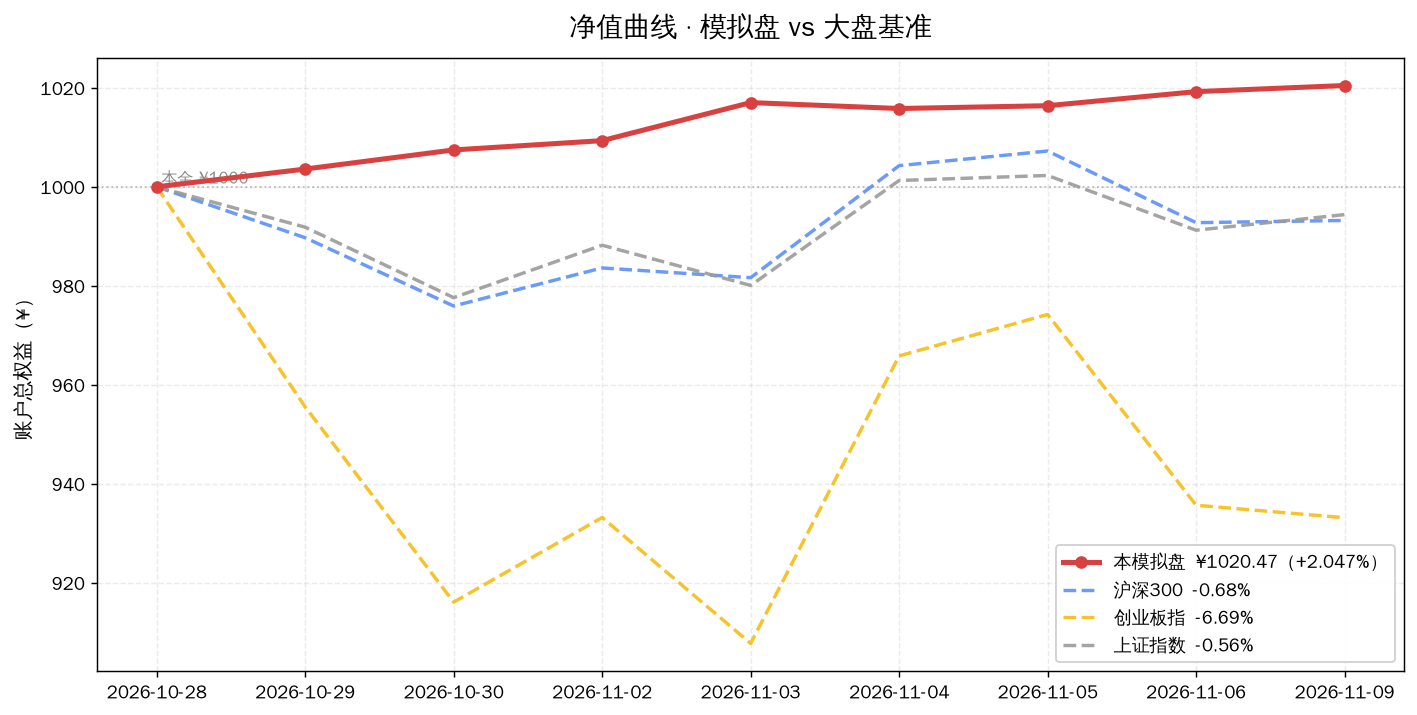
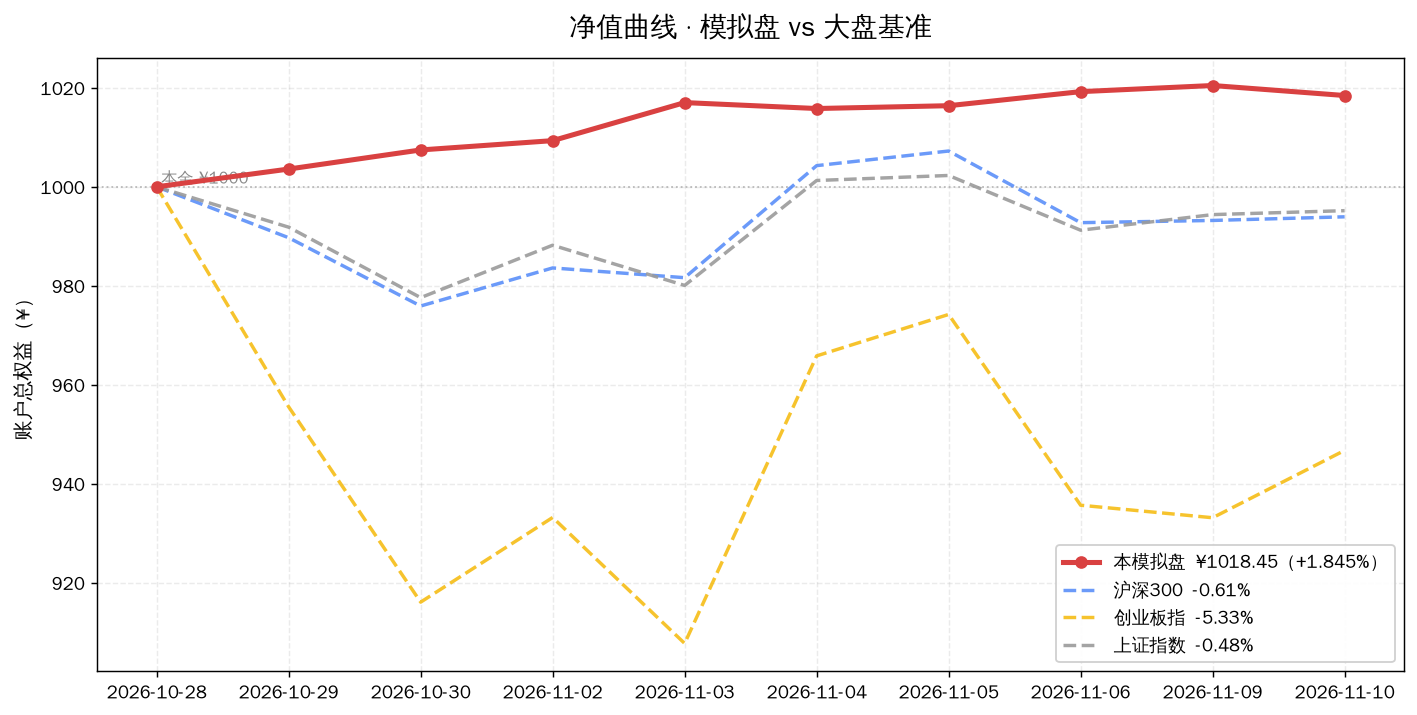
sim: dashboard update 2026-11-10 (equity ¥1018.45, +1.845%)

diff --git a/sim/DASHBOARD.md b/sim/DASHBOARD.md
@@ -1,8 +1,8 @@
 # 📊 模拟盘动态看板
 
-> **自动生成** · 最后更新 **2026-11-09 16:31** · 数据源：腾讯财经公开接口（实时行情）
+> **自动生成** · 最后更新 **2026-11-10 16:30** · 数据源：腾讯财经公开接口（实时行情）
 >
-> 本金 **¥1000.00** · 开仓 **2026-10-28** · 当前总权益 **¥1020.47** · 累计 **+2.047%**
+> 本金 **¥1000.00** · 开仓 **2026-10-28** · 当前总权益 **¥1018.45** · 累计 **+1.845%**
 >
 > ⚠ **纯模拟盘学习实验，不构成投资建议。**
 >
@@ -12,9 +12,9 @@
 
 ## 🎯 30 秒版本
 
-1. 从 2026-10-28 开仓到今天，账户从 ¥1000 变成 **¥1020.47**，赚了 **¥20.47（+2.047%）**。
-2. 今天单日 **+0.12%**，上涨 **¥1.24**。
-3. 同期大盘：**上证指数 -0.56%** 最强，**创业板指 -6.69%** 最弱 —— 本组合跑赢同期最强基准 +2.61 个百分点。
+1. 从 2026-10-28 开仓到今天，账户从 ¥1000 变成 **¥1018.45**，赚了 **¥18.45（+1.845%）**。
+2. 今天单日 **-0.20%**，下跌 **¥2.02**。
+3. 同期大盘：**上证指数 -0.48%** 最强，**创业板指 -5.33%** 最弱 —— 本组合跑赢同期最强基准 +2.33 个百分点。
 
 ## 📈 盈亏曲线
 
@@ -34,7 +34,7 @@
 
 ![盘中曲线](assets/intraday.png)
 
-**怎么读**：2026-11-09 当天每 30 分钟记录一次的账户总值。灰色虚线是当天开盘起点，曲线在虚线上方就是当天浮盈。A 股中午 11:30–13:00 休市，所以那段是平的。
+**怎么读**：2026-11-10 当天每 30 分钟记录一次的账户总值。灰色虚线是当天开盘起点，曲线在虚线上方就是当天浮盈。A 股中午 11:30–13:00 休市，所以那段是平的。
 
 ### 💵 每日盈亏明细图
 
@@ -50,20 +50,20 @@
 
 | 指标 | 数值 | 人话解读 |
 |---|---|---|
-| 总权益 | **¥1020.47** | 现在全部卖掉能拿回多少钱（持仓市值 + 现金） |
-| 持仓市值 | ¥746.60（73.2%） | 买成 ETF 的部分 |
-| 现金 | ¥273.87（26.8%） | 留着没买的钱，按货基利率计息 |
-| 累计盈亏 | **¥+20.47（+2.047%）** | 相对 ¥1000 本金 |
-| 今日盈亏 | **+0.12%** | 今天一天的变化 |
+| 总权益 | **¥1018.45** | 现在全部卖掉能拿回多少钱（持仓市值 + 现金） |
+| 持仓市值 | ¥744.58（73.1%） | 买成 ETF 的部分 |
+| 现金 | ¥273.87（26.9%） | 留着没买的钱，按货基利率计息 |
+| 累计盈亏 | **¥+18.45（+1.845%）** | 相对 ¥1000 本金 |
+| 今日盈亏 | **-0.20%** | 今天一天的变化 |
 | 历史最高 | ¥1020.47 | 账户到过的最高点 |
-| 当前回撤 | +0.000% | 离最高点还差多少（负数=没回到最高点） |
+| 当前回撤 | -0.198% | 离最高点还差多少（负数=没回到最高点） |
 
 ### 持仓明细
 
 | 标的 | 代码 | 持股 | 成本价 | 现价 | 今日 | 市值 | 浮动盈亏 | 人话解读 |
 |---|---|---|---|---|---|---|---|---|
-| 红利低波100ETF景顺 | 515100 | 450 | ¥1.431 | ¥1.473 | ➖+0.00% | ¥662.85 | **+18.90（+2.94%）** | 赚钱了 |
-| 黄金ETF华安 | 518880 | 10 | ¥8.226 | ¥8.375 | 🔺+1.48% | ¥83.75 | **+1.49（+1.81%）** | 赚钱了 |
+| 红利低波100ETF景顺 | 515100 | 450 | ¥1.431 | ¥1.468 | 🔻-0.34% | ¥660.60 | **+16.65（+2.59%）** | 赚钱了 |
+| 黄金ETF华安 | 518880 | 10 | ¥8.226 | ¥8.398 | 🔺+0.27% | ¥83.98 | **+1.72（+2.09%）** | 赚钱了 |
 | 现金 | — | — | — | — | — | ¥273.87 | — | 货基计息，年化 0.84% |
 
 ---
@@ -110,33 +110,41 @@
 
 | 资产 | 目标占比 | 实际占比 | 偏离 | 判定 |
 |---|---|---|---|---|
-| 红利低波100ETF景顺 | 65% | 65.0% | -0.0pp | 🟢 正常，不动 |
+| 红利低波100ETF景顺 | 65% | 64.9% | -0.1pp | 🟢 正常，不动 |
 | 黄金ETF华安 | 8% | 8.2% | +0.2pp | 🟢 正常，不动 |
-| 现金（货基） | 27% | 26.8% | -0.2pp | 🟢 正常，不动 |
+| 现金（货基） | 27% | 26.9% | -0.1pp | 🟢 正常，不动 |
 
 #### ② 补仓条件检查（规则：跌到成本价 -8% 触发补仓，每只最多 2 次）
 
 | 标的 | 成本价 | 现价 | 距成本 | 已补仓 | 判定 |
 |---|---|---|---|---|---|
-| 红利低波100ETF景顺 | ¥1.431 | ¥1.473 | +2.94% | 0/2 | 🟢 未触发（还差 10.9pp 才到 -8%） |
-| 黄金ETF华安 | ¥8.226 | ¥8.375 | +1.81% | 0/2 | 🟢 未触发（还差 9.8pp 才到 -8%） |
+| 红利低波100ETF景顺 | ¥1.431 | ¥1.468 | +2.59% | 0/2 | 🟢 未触发（还差 10.6pp 才到 -8%） |
+| 黄金ETF华安 | ¥8.226 | ¥8.398 | +2.09% | 0/2 | 🟢 未触发（还差 10.1pp 才到 -8%） |
 
 #### ③ 回撤检查（规则：账户从最高点回撤 -5% 只记录、不割肉）
 
 | 指标 | 数值 |
 |---|---|
 | 历史最高净值 | ¥1020.47（2026-11-09） |
-| 当前净值 | ¥1020.47（2026-11-09） |
-| 回撤幅度 | **+0.000%** |
+| 当前净值 | ¥1018.45（2026-11-10） |
+| 回撤幅度 | **-0.198%** |
 | 触发阈值 | -5% |
 
-> 🟢 **未触发**：距阈值还有 5.00pp 缓冲。即使触发，纪律也是记录而非卖出。
+> 🟢 **未触发**：距阈值还有 4.80pp 缓冲。即使触发，纪律也是记录而非卖出。
 
 #### ④ 今日结论
 
 > ⏸ **账户已冻结，不执行任何交易。** 以上检查仅作记录用途——共扫描 6 项纪律，触发 **0** 项。冻结状态下即使触发也不动手（用户决定不投 A 股）。
 
 ### 四、每日决策记录（当时怎么判断的）
+
+#### 📅 2026-11-10 · 权益 ¥1018.45（累计 +1.845%）
+
+- 总权益 **¥1018.45**（当日 -0.20% / 累计 +1.845%）
+- 红利低波100ETF景顺 1.468 (-0.34%)
+- 黄金ETF华安 8.398 (+0.27%)
+- 现金 ¥273.87
+- 📝 自动收盘估值（看板 cron）
 
 #### 📅 2026-11-09 · 权益 ¥1020.47（累计 +2.047%）
 
@@ -217,9 +225,9 @@
 
 | 指数 | 同期涨跌 | 本组合超额 | 人话解读 |
 |---|---|---|---|
-| 沪深300 | -0.68% | **+2.73pp** | 跑赢 2.73 个百分点 |
-| 创业板指 | -6.69% | **+8.73pp** | 跑赢 8.73 个百分点 |
-| 上证指数 | -0.56% | **+2.61pp** | 跑赢 2.61 个百分点 |
+| 沪深300 | -0.61% | **+2.45pp** | 跑赢 2.45 个百分点 |
+| 创业板指 | -5.33% | **+7.17pp** | 跑赢 7.17 个百分点 |
+| 上证指数 | -0.48% | **+2.33pp** | 跑赢 2.33 个百分点 |
 
 > 注：`pp` = percentage point（百分点），是两个百分比相减的单位。「+2.5pp」意思是「比它高 2.5 个百分点」，不是「高 2.5%」。
 
@@ -236,6 +244,7 @@
 | 2026-11-05 | ¥1016.39 | ¥742.55 | ¥273.84 | +1.639% |
 | 2026-11-06 | ¥1019.23 | ¥745.38 | ¥273.85 | +1.923% |
 | 2026-11-09 | ¥1020.47 | ¥746.60 | ¥273.87 | +2.047% |
+| 2026-11-10 | ¥1018.45 | ¥744.58 | ¥273.87 | +1.845% |
 
 ---
 
@@ -248,4 +257,4 @@
 
 ---
 
-_本页由 `dashboard.py` 自动生成于 2026-11-09 16:31:02，每个交易日收盘后刷新。_
+_本页由 `dashboard.py` 自动生成于 2026-11-10 16:30:49，每个交易日收盘后刷新。_
